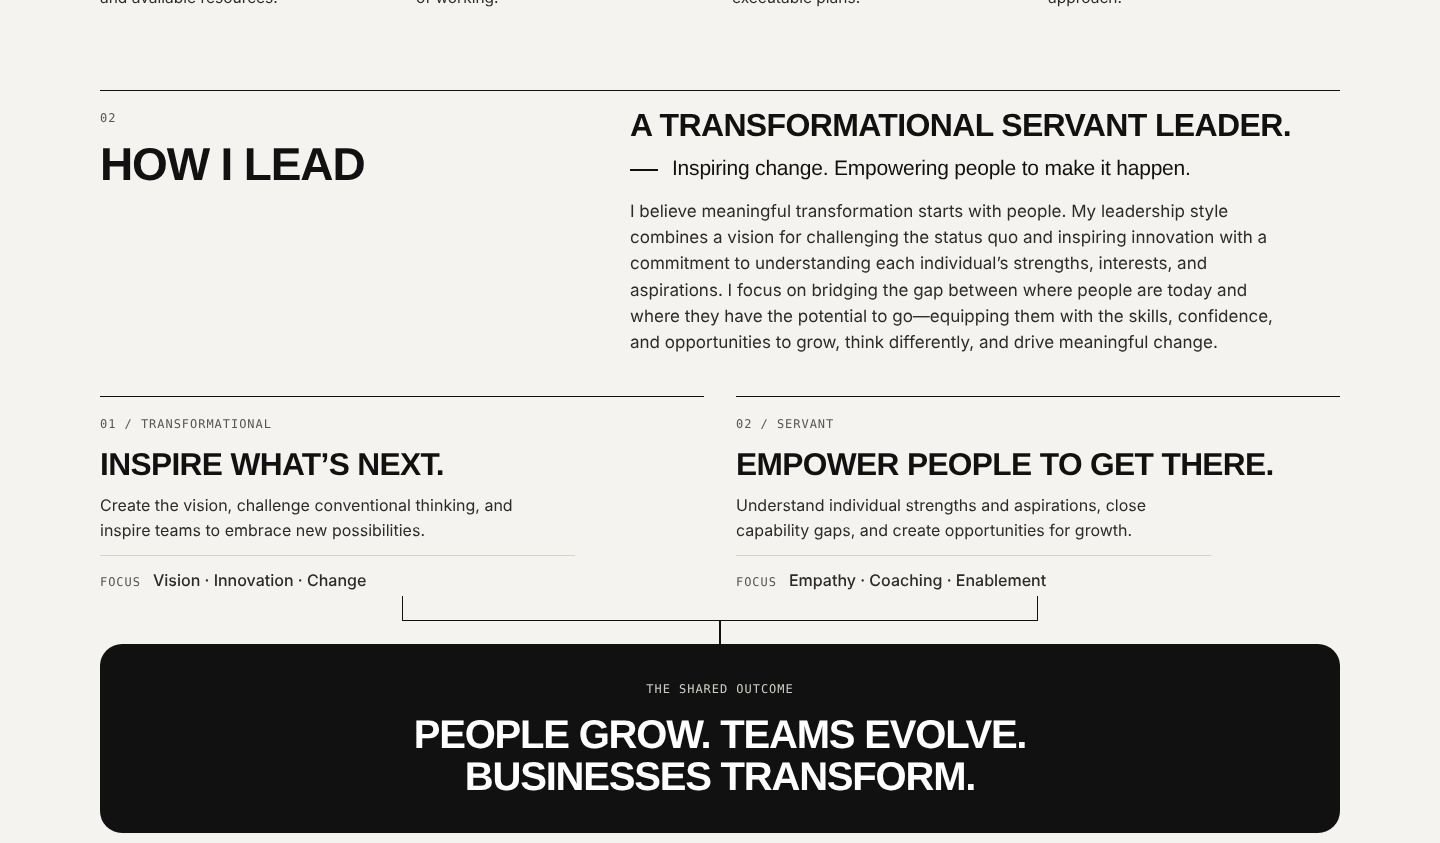
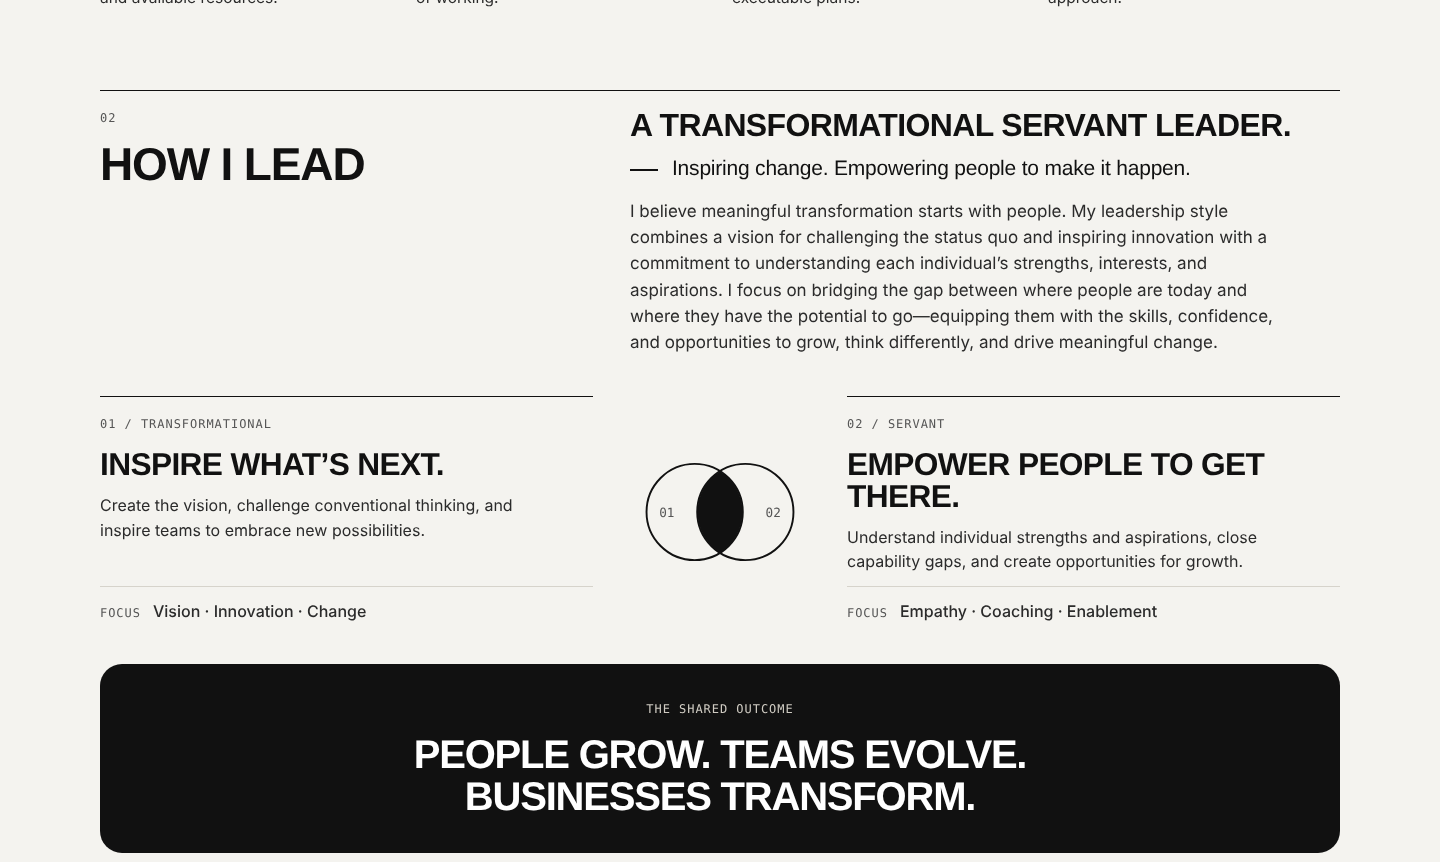
How I Lead: replace bracket connector with overlapping-circles motif
Claude-Session: https://claude.ai/code/session_01CUZA3bdNqg9f6SjYQ52HmC

diff --git a/index.html b/index.html
@@ -81,16 +81,15 @@ a{color:#111111}a:hover{color:#565656}
 .lead-h{font-family:'Inter Tight',sans-serif;font-weight:700;font-size:clamp(24px,2.3vw,32px);line-height:1.05;letter-spacing:-.02em;margin:0;color:var(--ink);text-transform:uppercase}
 .sec-head .copy p.lead-tag{font-family:'Inter Tight',sans-serif;font-weight:500;font-size:clamp(18px,1.5vw,21px);line-height:1.3;letter-spacing:-.01em;color:var(--ink);display:flex;gap:14px;margin-top:-4px}
 .lead-tag::before{content:"";flex:none;width:28px;height:1.5px;background:var(--ink);margin-top:.7em}
-.pillars{list-style:none;margin:0;padding:0;display:grid;grid-template-columns:repeat(2,minmax(0,1fr));gap:32px}
+.pillars{list-style:none;margin:0;padding:0;display:grid;grid-template-columns:minmax(0,1fr) auto minmax(0,1fr);gap:32px}
+.pillars li.venn{border:0;padding:0;align-self:center;align-items:center}
+.venn svg{display:block;width:clamp(150px,14vw,190px);height:auto}
 .pillars li{border-top:1.5px solid var(--ink);padding:18px 0 4px;display:flex;flex-direction:column;gap:12px}
 .pillars h3{font-family:'Inter Tight',sans-serif;font-weight:700;font-size:clamp(24px,2.2vw,32px);letter-spacing:-.02em;line-height:1;margin:4px 0 0;text-transform:uppercase}
 .pillars p{margin:0;color:var(--body);font-size:16px;max-width:46ch}
 .pillars .focus{max-width:none;margin-top:auto}
 .focus{display:flex;flex-wrap:wrap;gap:6px 12px;align-items:baseline;padding-top:12px;margin-top:4px;border-top:1px solid var(--line);font-weight:500;font-size:15px;color:var(--ink)}
-.converge{position:relative;height:48px}
-.converge::before{content:"";position:absolute;top:0;height:24px;left:calc((100% - 32px) / 4);right:calc((100% - 32px) / 4);border:1.5px solid var(--ink);border-top:0}
-.converge::after{content:"";position:absolute;left:50%;top:24px;bottom:0;width:1.5px;margin-left:-.75px;background:var(--ink)}
-.outcome{background:var(--ink);color:#fff;border-radius:22px;padding:36px 32px;text-align:center;display:flex;flex-direction:column;align-items:center;gap:14px}
+.outcome{margin-top:36px;background:var(--ink);color:#fff;border-radius:22px;padding:36px 32px;text-align:center;display:flex;flex-direction:column;align-items:center;gap:14px}
 .outcome .mono{color:#CFCBC2}
 .outcome p{font-family:'Inter Tight',sans-serif;font-weight:700;font-size:clamp(24px,2.8vw,40px);line-height:1.05;letter-spacing:-.03em;margin:0;text-transform:uppercase;max-width:28ch}
 
@@ -153,9 +152,8 @@ a{color:#111111}a:hover{color:#565656}
 .nav{gap:20px}
 .steps{grid-template-columns:minmax(0,1fr)}
 .pillars{grid-template-columns:minmax(0,1fr);row-gap:28px}
-.converge{height:32px}
-.converge::before{display:none}
-.converge::after{top:0}
+.venn svg{width:150px}
+.outcome{margin-top:28px}
 .outcome{padding:28px 20px;border-radius:18px}
 .cat a{grid-template-columns:minmax(0,1fr) 48px;gap:14px 16px;padding:24px 4px}
 .cat-n{grid-column:1 / -1}
@@ -243,10 +241,11 @@ html,body{overflow-x:clip}
 
 <li><span class="mono muted">01 / Transformational</span><h3>Inspire what’s next.</h3><p>Create the vision, challenge conventional thinking, and inspire teams to embrace new possibilities.</p><p class="focus"><span class="mono muted">Focus</span>Vision · Innovation · Change</p></li>
 
+<li class="venn" aria-hidden="true"><svg viewBox="0 0 150 90"><circle cx="55" cy="45" r="38" fill="none" stroke="currentColor" stroke-width="1.5"/><circle cx="95" cy="45" r="38" fill="none" stroke="currentColor" stroke-width="1.5"/><path d="M75 12.8A38 38 0 0 1 75 77.2A38 38 0 0 1 75 12.8Z" fill="currentColor"/><text x="27" y="49" font-family="IBM Plex Mono,monospace" font-size="10" fill="#565656">01</text><text x="111" y="49" font-family="IBM Plex Mono,monospace" font-size="10" fill="#565656">02</text></svg></li>
+
 <li><span class="mono muted">02 / Servant</span><h3>Empower people to get there.</h3><p>Understand individual strengths and aspirations, close capability gaps, and create opportunities for growth.</p><p class="focus"><span class="mono muted">Focus</span>Empathy · Coaching · Enablement</p></li>
 
 </ul>
-<div class="converge" aria-hidden="true"></div>
 <div class="outcome">
 <span class="mono">The shared outcome</span>
 <p>People grow. Teams evolve. Businesses transform.</p>
